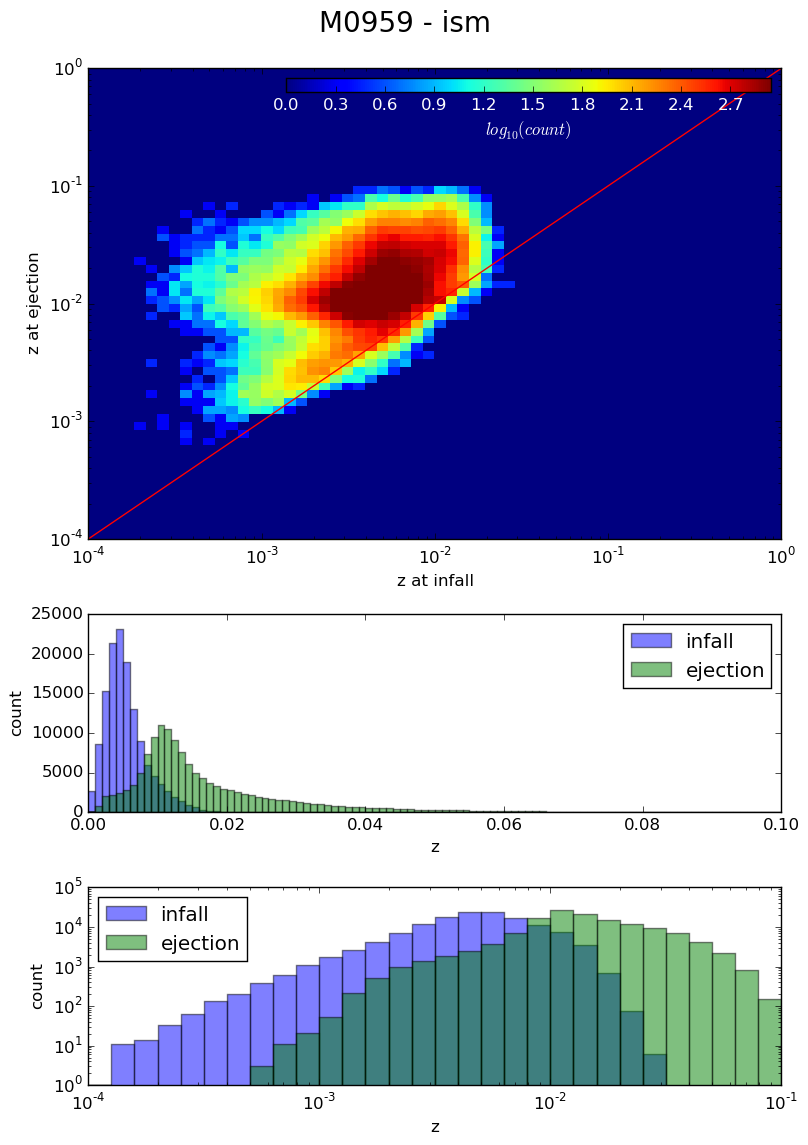
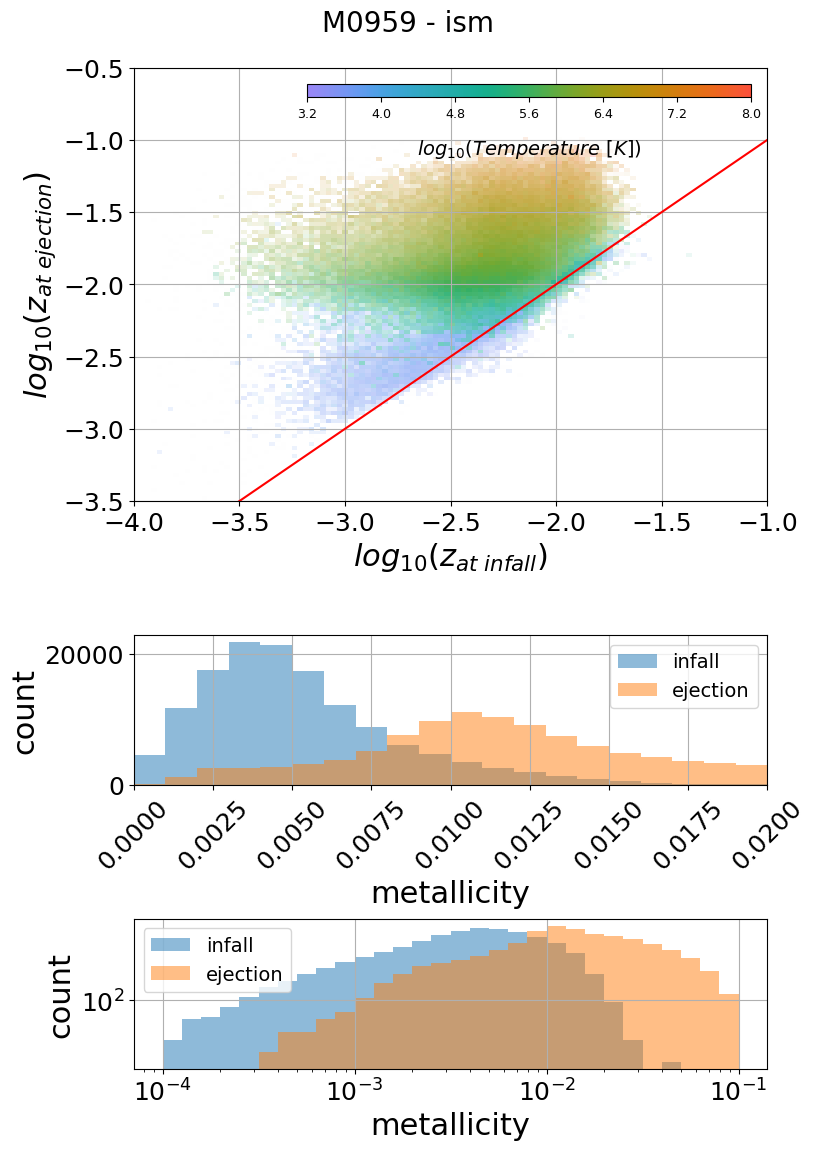
metals remove old plots, use scatter_map, change 1st histogtram xaxis

diff --git a/1/metals.py b/1/metals.py
@@ -21,28 +21,11 @@ def plot(args):
     max = int(sorted(glob.glob(path))[-1][-3:])
     s, h, g = pg.prepare_zoom('/ptmp/mpa/naab/REFINED/%s/SF_X/4x-2phase/out/snap_%s_4x_%s' % (halo, halo, max), gas_trace='/u/mihac/data/%s/4x-2phase/gastrace_%s' % (halo, definition), star_form=None)
 
-    metals_ejection = [item[item > 0] for item in s.gas['metals_at_ejection'][s.gas['num_recycled'] > -1] / s.gas['mass_at_ejection'][s.gas['num_recycled'] > -1]]
-    metals_infall = [item[item > 0] for item in s.gas['metals_at_infall'][s.gas['num_recycled'] > -1] / s.gas['mass_at_infall'][s.gas['num_recycled'] > -1]]
-    metals_infall_full = copy(metals_infall)
-
-    for i, temp in enumerate(metals_ejection):
-        if len(temp) < len(metals_infall[i]):
-            metals_infall[i] = metals_infall[i][:-1]
-        elif len(temp) > len(metals_infall[i]):
-            print 'hmm'
-
-    metals_ejection = [item for sublist in metals_ejection for item in sublist]
-    metals_infall = [item for sublist in metals_infall for item in sublist]
-    metals_infall_full = [item for sublist in metals_infall_full for item in sublist]
-
-    count_infall, edges, foo = stats.binned_statistic(metals_infall,
-        metals_ejection, statistic='count', bins=np.logspace(-4, -1, 31))
-    count_ejection, edges, foo = stats.binned_statistic(metals_ejection,
-        metals_infall, statistic='count', bins=np.logspace(-4, -1, 31))
-
-    count_infall = np.array(count_infall).astype(float) * 1e-1 / np.max(count_infall)
-    count_ejection = np.array(count_ejection).astype(float) * 1e-1 / np.max(count_ejection)
-
+    mask = s.gas['mass_at_ejection'] > 0
+    metallicity_at_infall = s.gas['metals_at_infall'][mask] / s.gas['mass_at_infall'][mask]
+    metallicity_at_ejection = s.gas['metals_at_ejection'][mask] / s.gas['mass_at_ejection'][mask]
+    metals_infall =  s.gas['metals_at_infall'][mask]
+    metals_ejection = s.gas['metals_at_ejection'][mask]
 
     f = plt.figure(figsize=utils.figsize)
     gs = gridspec.GridSpec(4, 1)
@@ -50,45 +33,40 @@ def plot(args):
     ax2 = plt.subplot(gs[2, 0])
     ax3 = plt.subplot(gs[3, 0])
 
-    bins, x_edge, y_edge = np.histogram2d(metals_ejection, metals_infall,
-        bins=[np.logspace(-4, 0, 61), np.logspace(-4, 0, 61)])
-    vmin, vmax = np.percentile(utils.finite(np.log10(bins.flatten())), [0, 95])
-    
-    abc = ax1.pcolormesh(x_edge, y_edge, np.log10(bins), vmin=vmin, vmax=vmax)
-    cax = inset_axes(ax1, width="70%", height="3%", loc=1)
-    cbar = f.colorbar(abc, cax=cax, orientation='horizontal')
-    cbar.set_label('$log_{10}(count)$', color='w')
-    cbar_obj = plt.getp(cbar.ax.axes, 'xticklabels')
-    plt.setp(cbar_obj, color='w')
-    
-    ax1.plot([0, 1], [0, 1], color='r')
-    ax1.set_xscale('log')
-    ax1.set_yscale('log')
-    ax1.set_xlim((1e-4, 1e0))
-    ax1.set_ylim((1e-4, 1e0))
-    ax1.set_xlabel("z at infall")
-    ax1.set_ylabel("z at ejection")
+    _, _, _, cbar = pg.plotting.scatter_map(np.log10(metallicity_at_infall),
+        np.log10(metallicity_at_ejection), qty=s.gas['mass_at_infall'][mask],
+        colors=s.gas['T_at_ejection'][mask], colors_av=s.gas['mass_at_infall'][mask],
+        logscale=True, extent=[[-4, 0], [-4, 0]], clogscale=True, clim=[10**3.2, 1e8],
+        zero_is_white=True, ax=ax1)
+    cbar_ax = cbar.ax
+    cbar_ax.set_xlabel(r'$log_{10} ( Temperature\ [K] ) $')
+    ax1.plot([-4, 0], [-4, 0], color='r')
+    ax1.set_xlim((-4, -1))
+    ax1.set_ylim((-3.5, -.5))
+    ax1.set_xlabel(r"$log_{10}(z_{at\ infall})$")
+    ax1.set_ylabel(r"$log_{10}(z_{at\ ejection})$")
 
     ax2.set_ylabel("count")
-    ax2.set_xlabel("z")
-    ax2.set_xlim((0, .1))
-    ax2.hist(metals_infall, bins=np.linspace(0, .1, 101), alpha=.5, label='infall')
-    ax2.hist(metals_ejection, bins=np.linspace(0, .1, 101), alpha=.5, label='ejection')
-    leg1 = ax2.legend(loc='best')
+    ax2.set_xlabel("metallicity")
+    ax2.set_xlim((0, .02))
+    ax2.hist(metallicity_at_infall, bins=np.linspace(0, .1, 101), alpha=.5, label='infall')
+    ax2.hist(metallicity_at_ejection, bins=np.linspace(0, .1, 101), alpha=.5, label='ejection')
+    leg1 = ax2.legend(loc='best', fontsize=14)
+    plt.setp(ax2.get_xticklabels(), rotation=45)
 
     ax3.set_ylabel("count")
-    ax3.set_xlabel("z")
+    ax3.set_xlabel("metallicity")
     ax3.set_xscale('log')
     ax3.set_yscale('log')
-    ax3.hist(metals_infall, bins=np.logspace(-4, -1, 31), alpha=.5, label='infall')
-    ax3.hist(metals_ejection, bins=np.logspace(-4, -1, 31), alpha=.5, label='ejection')
-    leg2 = ax3.legend(loc='best')
+    ax3.hist(metallicity_at_infall, bins=np.logspace(-4, -1, 31), alpha=.5, label='infall')
+    ax3.hist(metallicity_at_ejection, bins=np.logspace(-4, -1, 31), alpha=.5, label='ejection')
+    leg2 = ax3.legend(loc='best', fontsize=14)
 
     f.tight_layout()
     plt.subplots_adjust(top=0.93)
     f.suptitle('%s - %s' % (halo, definition), fontsize=20)
     plt.savefig(filename.split("/")[-1][:-3] + '_' + halo + '_' + definition + ".png", bbox_inches='tight')
 
-p = Pool(4)
+p = Pool(7)
 p.map(plot, utils.combinations)
 
